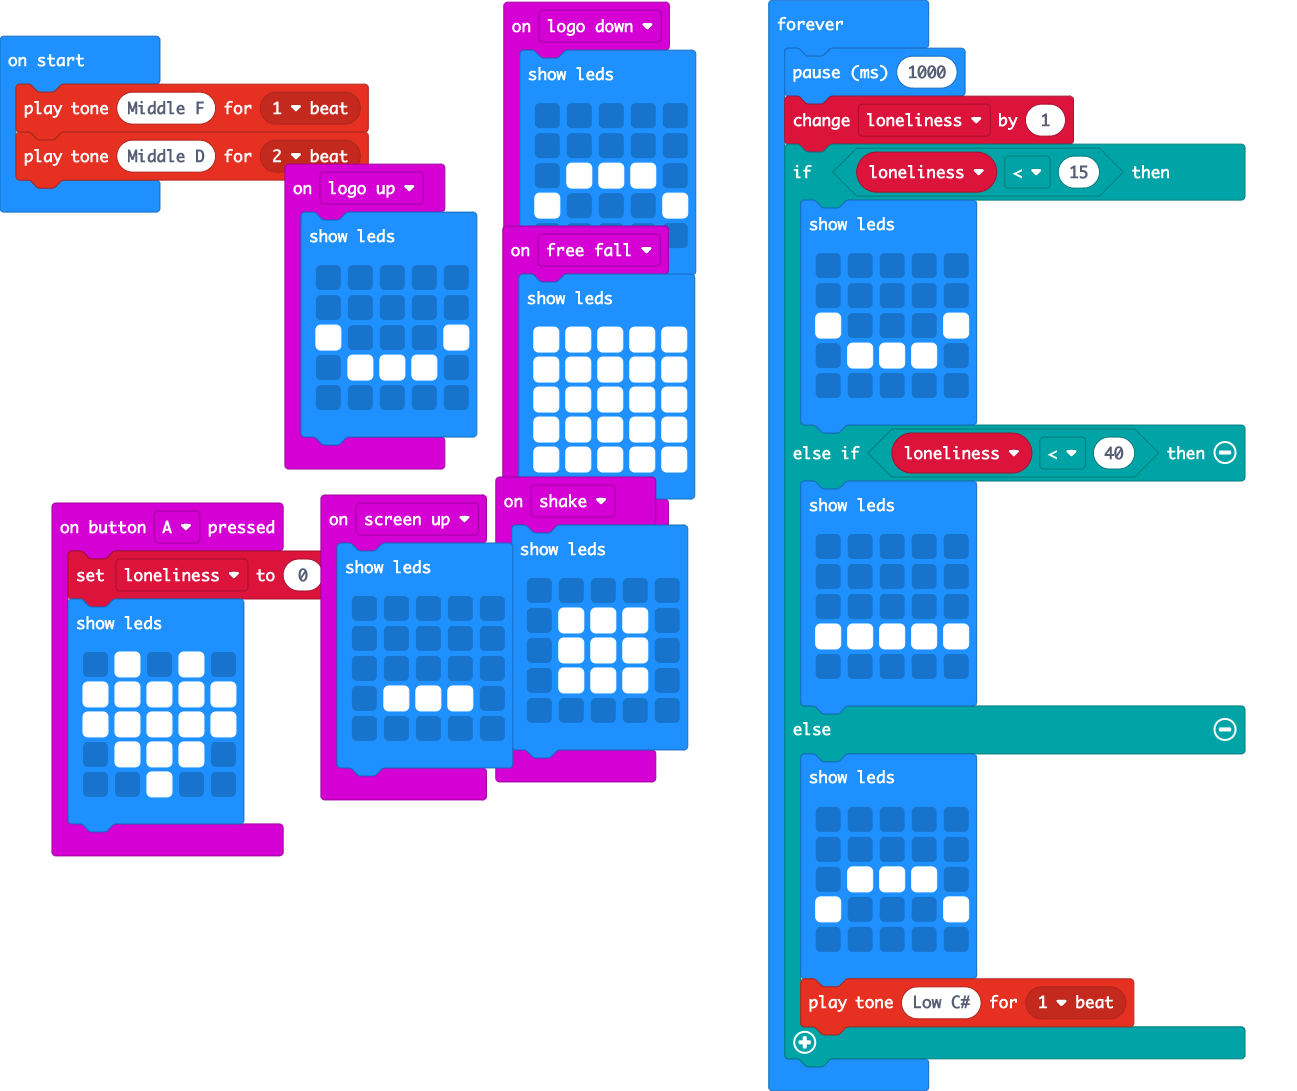
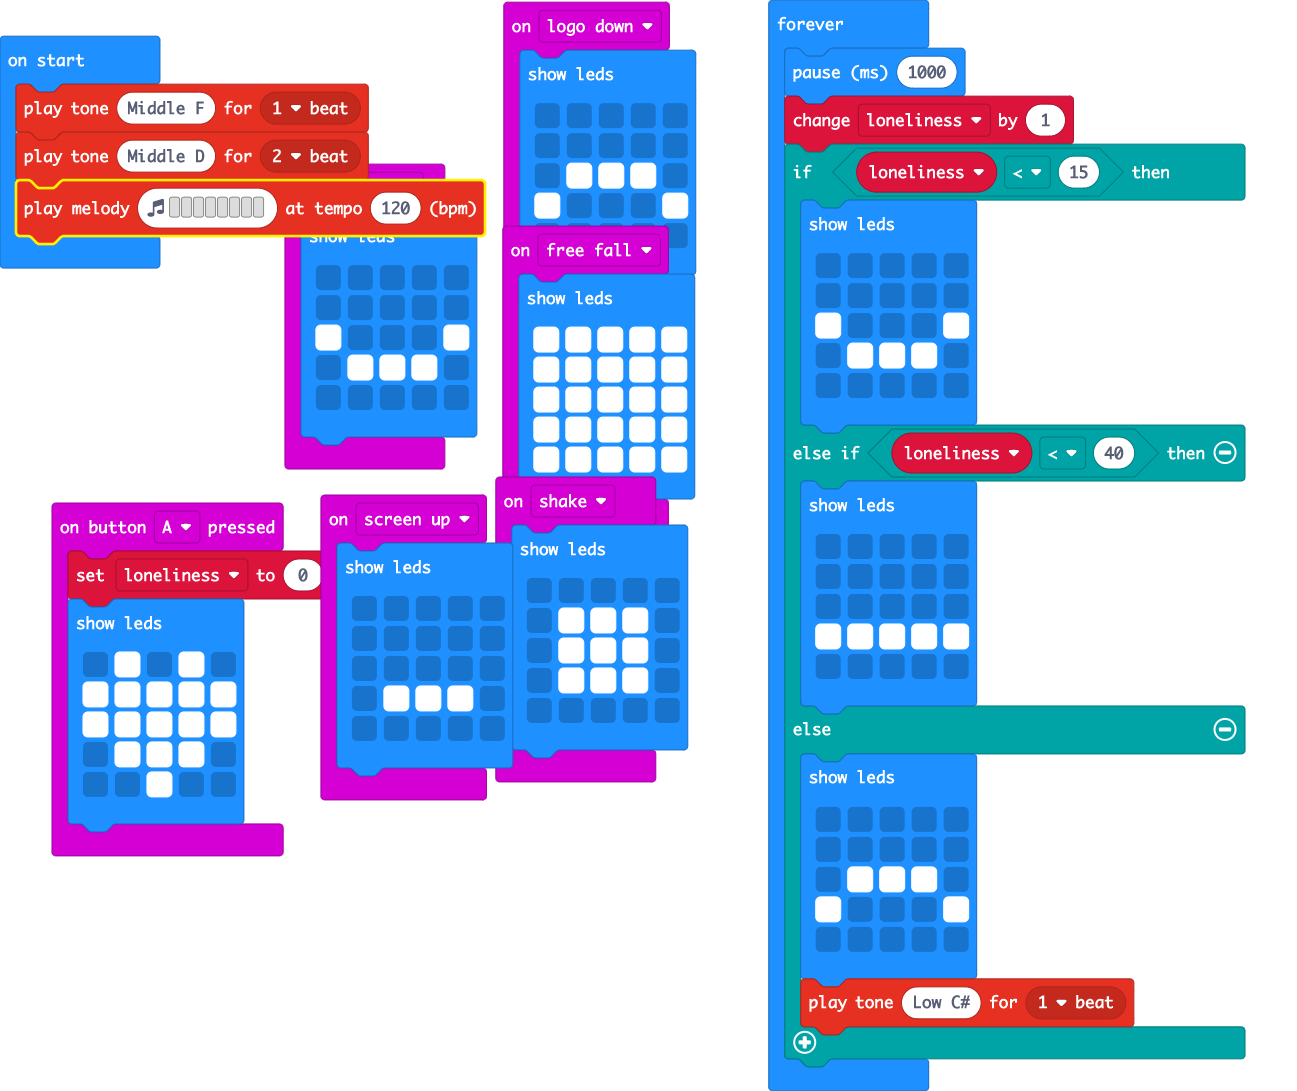
Update main.blocks, main.ts

Changed region(s): [[0.0, 0.1247, 0.4009, 0.2493]]

diff --git a/main.ts b/main.ts
@@ -56,6 +56,7 @@ input.onGesture(Gesture.LogoDown, function () {
 let loneliness = 0
 music.playTone(349, music.beat(BeatFraction.Whole))
 music.playTone(294, music.beat(BeatFraction.Double))
+music.playMelody("- - - - - - - - ", 120)
 basic.forever(function () {
     basic.pause(1000)
     loneliness += 1
